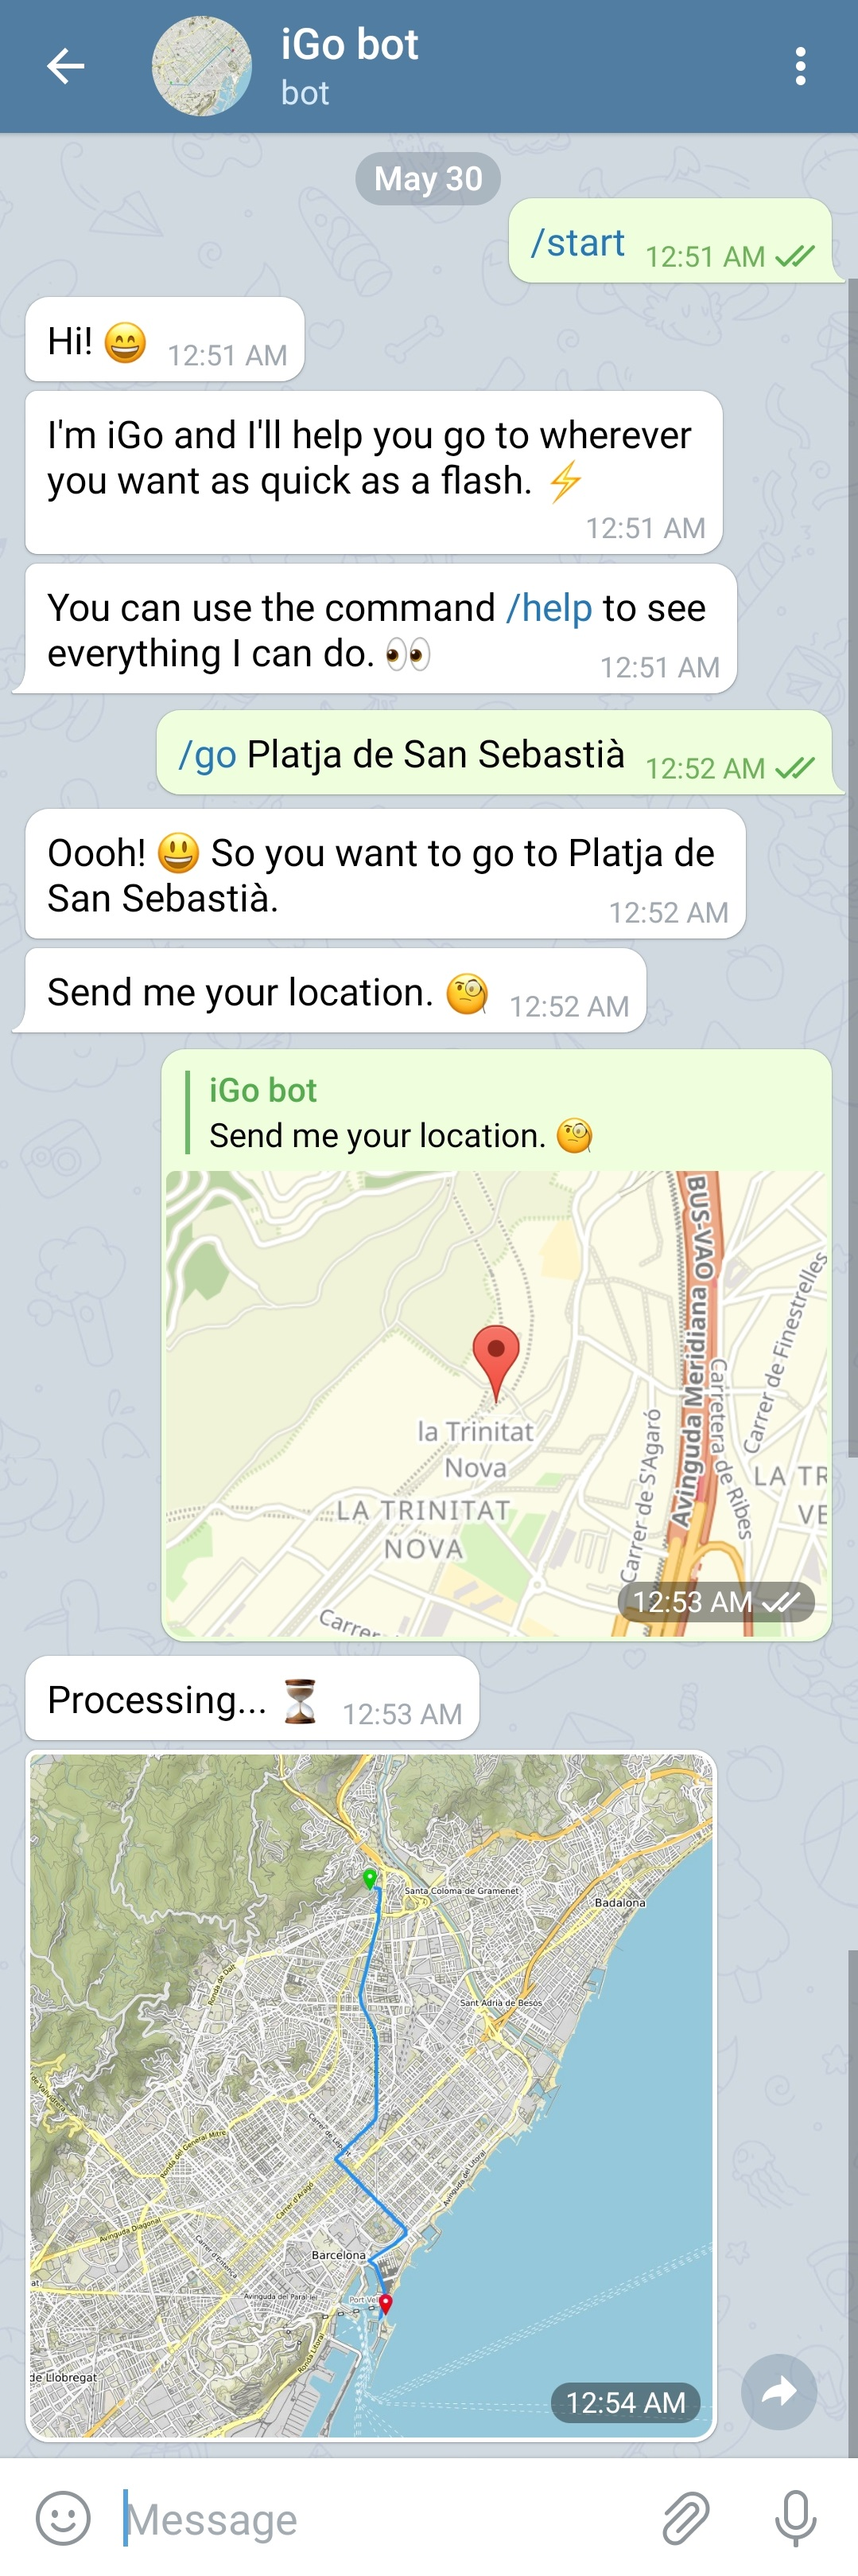
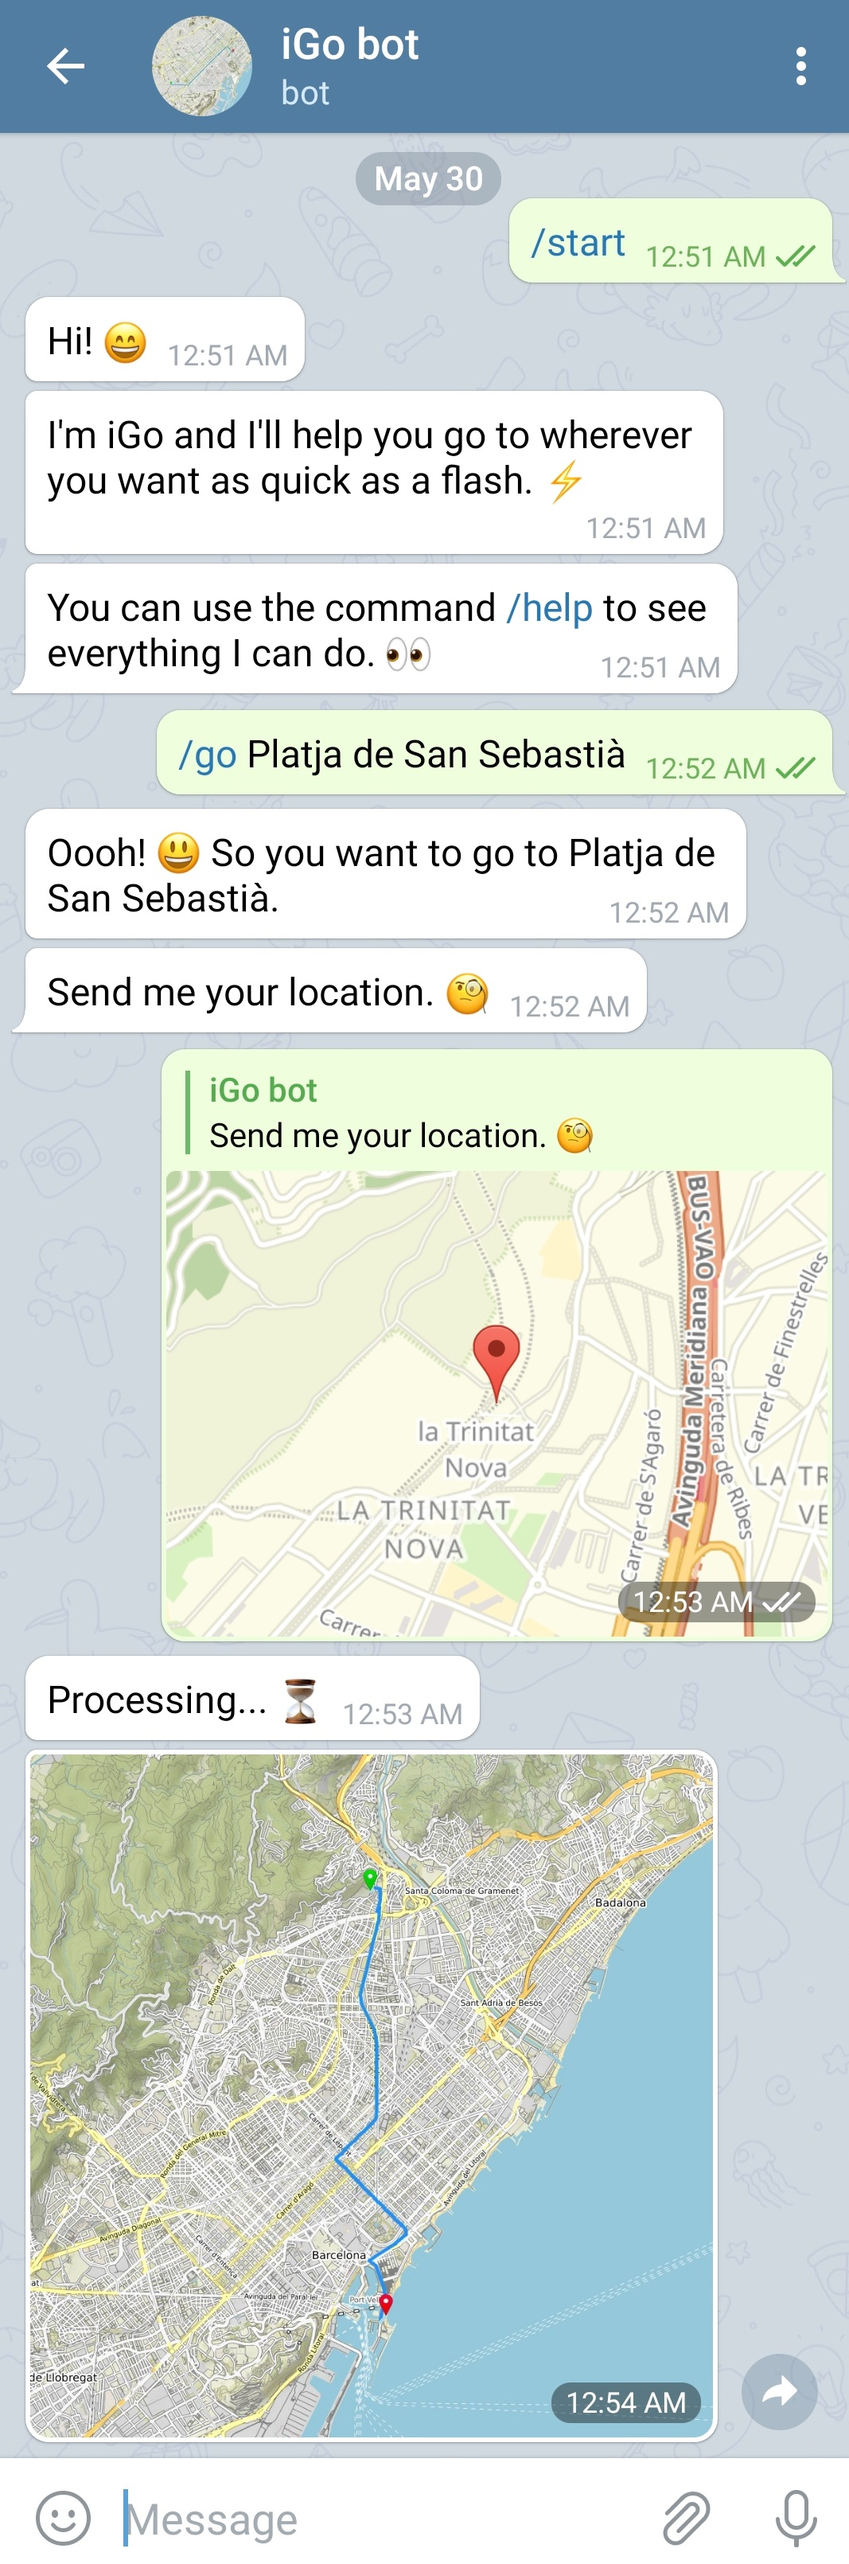
FINISHED!!!!!!!!!!!!!!!!!!!!!!!!!!!!!!!!!!!!!!!!!!!!!!!!!!!!!!!!!!!!!!!!!!!!!!!!!!!!!!!!!!!!!!!!!!!!!!!!!!!!!!!!!!!!!!!!!!!!!!!!!!!!!!!!!!!!!!!!!!!!!!!!!!!!!!!!!!!!!!!!!?!!!!!!!!!!!!!!!!!

diff --git a/README.md b/README.md
@@ -21,12 +21,14 @@ The iGo bot is available in three different languages: Catalan, Spanish and Engl
 to add support for more! The translations of the shown messages are handled by the `translations` 
 module, which is an additional subcomponent developed in this project.
 
-### Example functionality
+### Example of use
 
 An example of how the bot can be used to search a path from the user's current location to
 "Platja de Sant Sebastià" can be seen in the following screenshot:
 
-![Screenshot](screenshot.png)
+<p align="center">
+  <img src="screenshot.png" height="1000">
+</p>
 
 ## `igo` module
 
